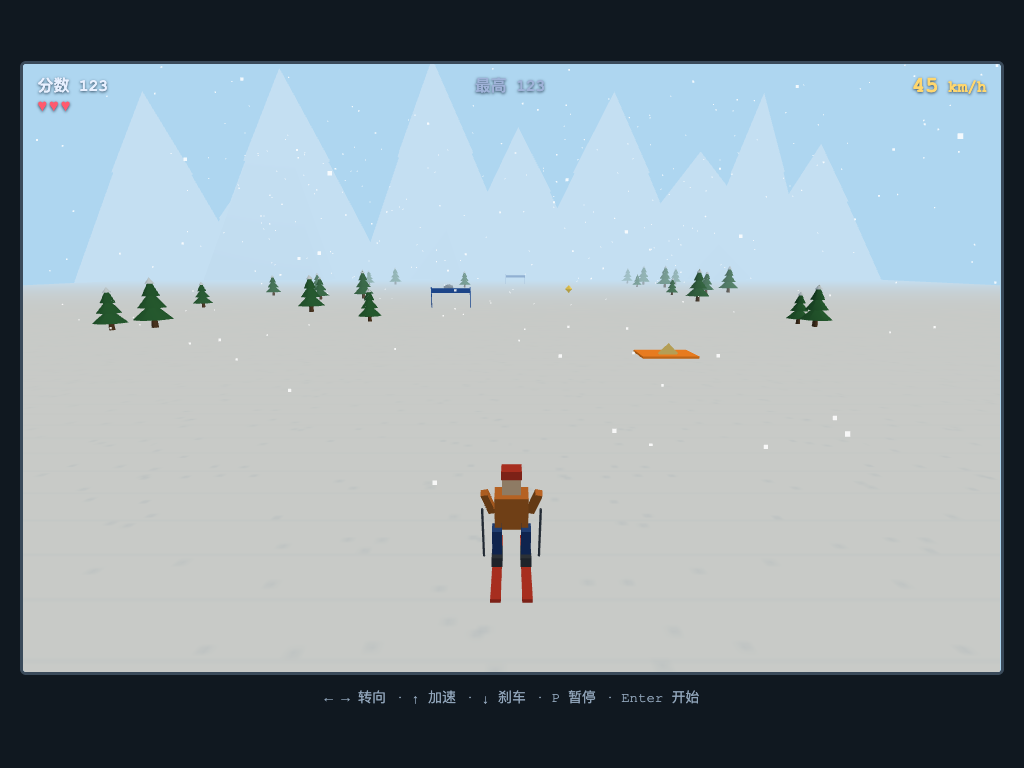
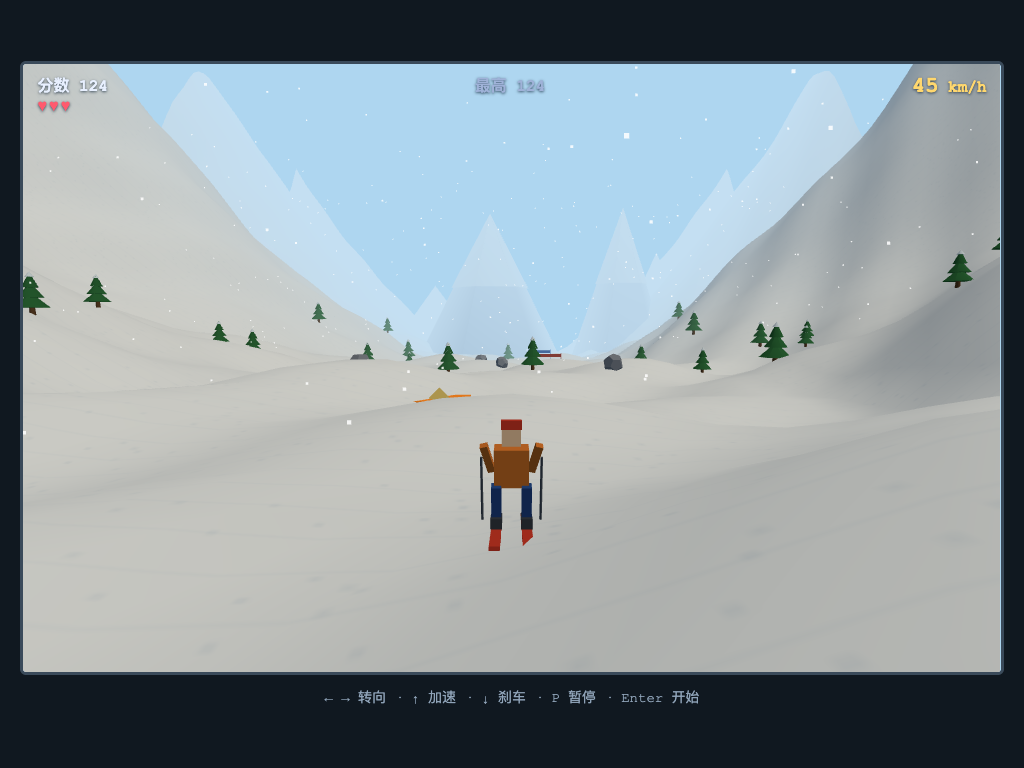
feat: 滑雪大冒险改为起伏3D地形(雪丘/谷壁/下坡)并更新预览图

diff --git a/skiing/js/scene.js b/skiing/js/scene.js
@@ -14,7 +14,7 @@ class SkiScene {
 
     this.scene = new THREE.Scene();
     this.scene.background = new THREE.Color(0xaed6f0);
-    this.scene.fog = new THREE.Fog(0xc4dff2, 45, 165);
+    this.scene.fog = new THREE.Fog(0xc4dff2, 55, 200);
 
     this.camera = new THREE.PerspectiveCamera(60, w / h, 0.1, 400);
     this.camera.position.set(0, 5, 8);
@@ -24,17 +24,19 @@ class SkiScene {
     const sun = new THREE.DirectionalLight(0xfff5e0, 1.6);
     sun.position.set(30, 60, 20);
     this.scene.add(sun);
-    this.scene.add(new THREE.AmbientLight(0xbfd4e6, 1.0));
+    this.scene.add(new THREE.AmbientLight(0xbfd4e6, 0.75));
 
-    // ----- 雪地(纹理滚动表现滑行) -----
+    // ----- 起伏雪地(高度场:雪丘 + 两侧谷壁 + 向前下坡,随里程滚动) -----
     this.snowTex = this.makeSnowTexture();
-    const ground = new THREE.Mesh(
-      new THREE.PlaneGeometry(220, 320),
+    this.groundGeo = new THREE.PlaneGeometry(220, 320, 88, 100);
+    this.groundGeo.rotateX(-Math.PI / 2);   // 顶点变为 (x, 0, z),z ∈ [-160,160]
+    this.ground = new THREE.Mesh(
+      this.groundGeo,
       new THREE.MeshLambertMaterial({ map: this.snowTex, color: 0xffffff })
     );
-    ground.rotation.x = -Math.PI / 2;
-    ground.position.set(0, 0, -110);
-    this.scene.add(ground);
+    this.ground.position.set(0, 0, -110);
+    this.scene.add(this.ground);
+    this.groundY = 0;   // 玩家脚下地面高度(平滑值,相机用)
 
     // ----- 远景雪山(雾里,静止) -----
     this.buildMountains();
@@ -66,6 +68,19 @@ class SkiScene {
     window.addEventListener('resize', () => this.onResize());
   }
 
+  // 地形高度:wx/wz 为世界坐标(wz = 屏幕 z + 里程)
+  // = 滚动雪丘(轨道内平缓) + 两侧谷壁(出界后快速抬升) + 向前下坡
+  groundH(wx, wz) {
+    const G = 0.07;   // 下坡坡度:前方(负 z)更低
+    let h = G * wz;
+    h += 1.2 * Math.sin(wx * 0.15) * Math.sin(wz * 0.11)
+       + 0.6 * Math.sin(wx * 0.33 + wz * 0.29)
+       + 0.35 * Math.sin(wz * 0.51);
+    const side = Math.max(0, Math.abs(wx) - SLOPE_HALF_W - 6);
+    if (side > 0) h += side * (0.35 + 0.25 * Math.sin(wz * 0.07)) + side * side * 0.006;
+    return h;
+  }
+
   // 雪地纹理:白底 + 细灰点/横纹,offset 滚动产生速度感
   makeSnowTexture() {
     const c = document.createElement('canvas');
@@ -86,7 +101,7 @@ class SkiScene {
   }
 
   buildMountains() {
-    const rockMat = new THREE.MeshLambertMaterial({ color: 0x7f9cbf });
+    const rockMat = new THREE.MeshLambertMaterial({ color: 0x6a8fc0 });
     const snowMat = new THREE.MeshLambertMaterial({ color: 0xe8f2fa });
     for (let i = 0; i < 9; i++) {
       const x = -130 + i * 32 + (Math.random() * 20 - 10);
@@ -94,11 +109,11 @@ class SkiScene {
       const h = 40 + Math.random() * 35;
       const r = 22 + Math.random() * 14;
       const m = new THREE.Mesh(new THREE.ConeGeometry(r, h, 6), rockMat);
-      m.position.set(x, h / 2 - 4, z);
+      m.position.set(x, h / 2 - 17, z);   // 前方下坡,远处地面比玩家低约 13m,山基埋到坡下
       m.rotation.y = Math.random() * Math.PI;
       this.scene.add(m);
       const cap = new THREE.Mesh(new THREE.ConeGeometry(r * 0.42, h * 0.4, 6), snowMat);
-      cap.position.set(x, h - h * 0.2 - 4, z);
+      cap.position.set(x, h - h * 0.2 - 17, z);
       cap.rotation.y = m.rotation.y;
       this.scene.add(cap);
     }
@@ -257,9 +272,26 @@ class SkiScene {
 
   sync(world, dt) {
     const p = world.player;
+    const dist = world.dist;
 
-    // 玩家:位置 + 转向倾斜 + 无敌闪烁
+    // 地形高度场随里程滚动(顶点按世界坐标重算,雪丘向后流动)
+    const pos = this.groundGeo.attributes.position;
+    const va = pos.array;
+    for (let i = 0; i < va.length; i += 3) {
+      va[i + 1] = this.groundH(va[i], va[i + 2] - 110 + dist);
+    }
+    pos.needsUpdate = true;
+    this.groundGeo.computeVertexNormals();
+
+    // 玩家脚下地面高度(平滑),相机跟随
+    const targetY = this.groundH(p.x, dist);
+    this.groundY += (targetY - this.groundY) * Math.min(1, dt * 8);
+
+    // 玩家:贴地 + 随坡度前倾 + 转向倾斜 + 无敌闪烁
     this.playerMesh.position.x = p.x;
+    this.playerMesh.position.y = targetY;
+    const slope = (this.groundH(p.x, dist - 2) - this.groundH(p.x, dist + 2)) / 4;
+    this.playerMesh.rotation.x = Math.atan(slope) * 0.7;
     this.playerMesh.rotation.z = -p.steerVis * 0.45;
     this.playerMesh.rotation.y = -p.steerVis * 0.25;
     this.playerMesh.visible = p.invincible <= 0 || Math.floor(world.time * 10) % 2 === 0;
@@ -276,6 +308,7 @@ class SkiScene {
       }
       m.position.x = e.x;
       m.position.z = e.z;
+      m.position.y = this.groundH(e.x, e.z + dist);
       // 星星旋转 / 加速带箭头脉动
       if (m.userData.spin) m.userData.spin.rotation.y += dt * 3;
       // 旗门旗面:穿过变绿,漏过变灰
@@ -293,16 +326,17 @@ class SkiScene {
       }
     }
 
-    // 相机追尾(横向缓动)
+    // 相机追尾(横向缓动 + 贴地高度,视线落在前方坡面)
     this.camX += (p.x * 0.7 - this.camX) * Math.min(1, dt * 5);
-    this.camera.position.set(this.camX, 5.0, 8.0);
-    this.camera.lookAt(p.x * 0.85, 1.0, -12);
+    this.camera.position.set(this.camX, this.groundY + 5.0, 8.0);
+    this.camera.lookAt(p.x * 0.85, this.groundH(p.x, dist - 12) + 1.0, -12);
 
-    // 雪地纹理滚动 + 两侧装饰树滚动循环
-    this.snowTex.offset.y = (world.dist / 10) % 1;
+    // 雪地纹理滚动 + 两侧装饰树滚动循环(贴谷壁地形)
+    this.snowTex.offset.y = (dist / 10) % 1;
     for (const t of this.decoTrees) {
       t.position.z += p.speed * dt;
       if (t.position.z > 15) t.position.z -= 155;
+      t.position.y = this.groundH(t.position.x, t.position.z + dist);
     }
 
     // 飘雪:下落 + 被风带着向后,出界回收
@@ -314,6 +348,8 @@ class SkiScene {
       if (arr[i + 2] > 10) arr[i + 2] -= 80;
     }
     this.snow.geometry.attributes.position.needsUpdate = true;
+    // 飘雪整体跟随地面高度
+    this.snow.position.y = this.groundY;
   }
 
   render() {

diff --git a/skiing/README.md b/skiing/README.md
@@ -46,7 +46,7 @@ npx serve .
 
 - Three.js r158 UMD 构建本地化(`lib/three.min.js`),普通 script 标签引入,不依赖 CDN。
 - 逻辑与渲染分离:`js/logic.js` 纯 JS 零环境依赖(Node 可直接跑),`js/scene.js` 只负责把逻辑状态同步成 THREE mesh。
-- 程序化生成的雪山场景:蓝色雾 + 远景雪山、圆锥松树、多面体岩石、积木滑雪小人、飘雪粒子,无任何外部素材。
+- 程序化生成的雪山场景:高度场起伏地形(滚动雪丘 + 两侧谷壁 + 向前下坡,全部物体贴地)、蓝色雾 + 远景雪山、圆锥松树、多面体岩石、积木滑雪小人、飘雪粒子,无任何外部素材。
 - WebAudio 合成音效:随速度变化的滑行风声、过门叮声、拾取与撞击声。
 - `?demo=秒数` 自动演示快进(AI 躲障碍、阵亡自动重开)、`?touch=1` 强制显示触屏控制,用于预览截图与调试。
 
